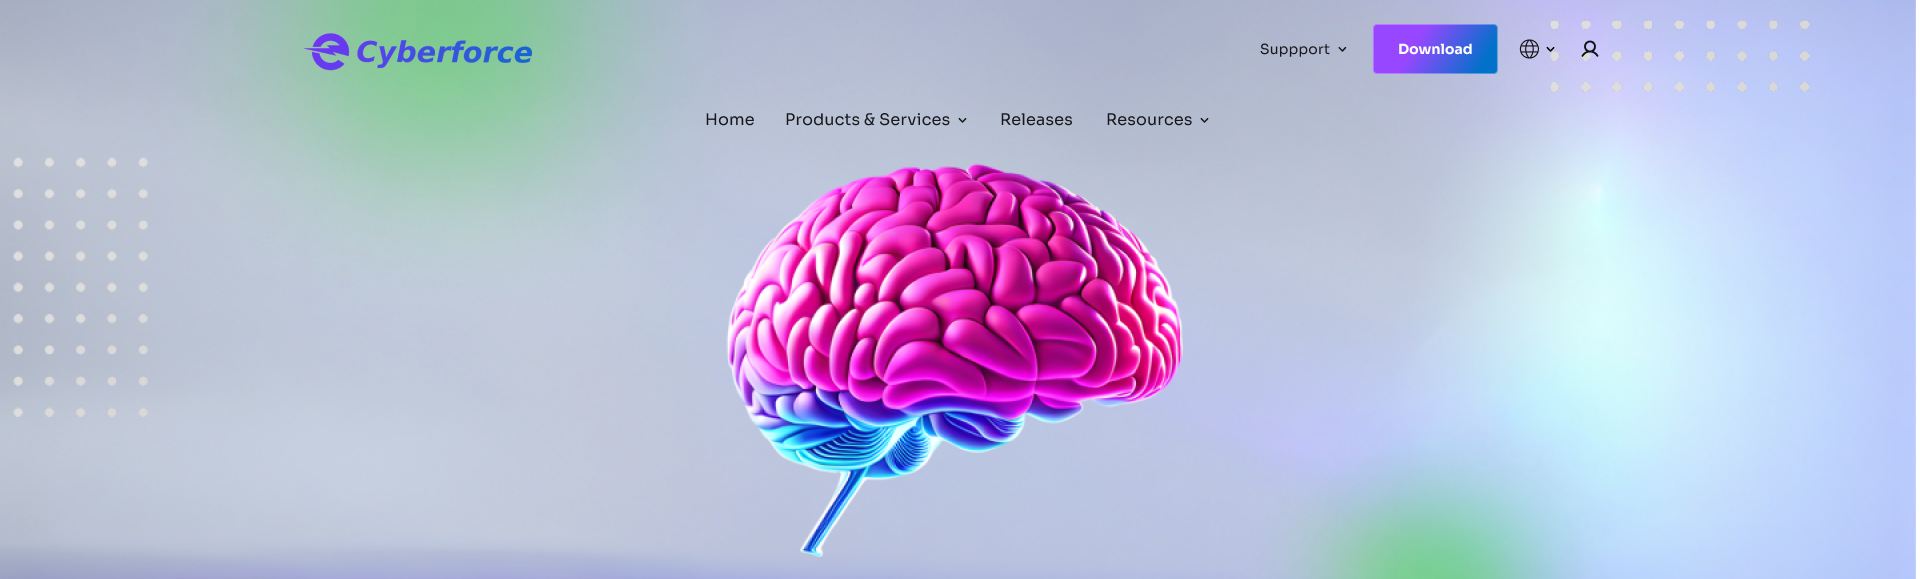
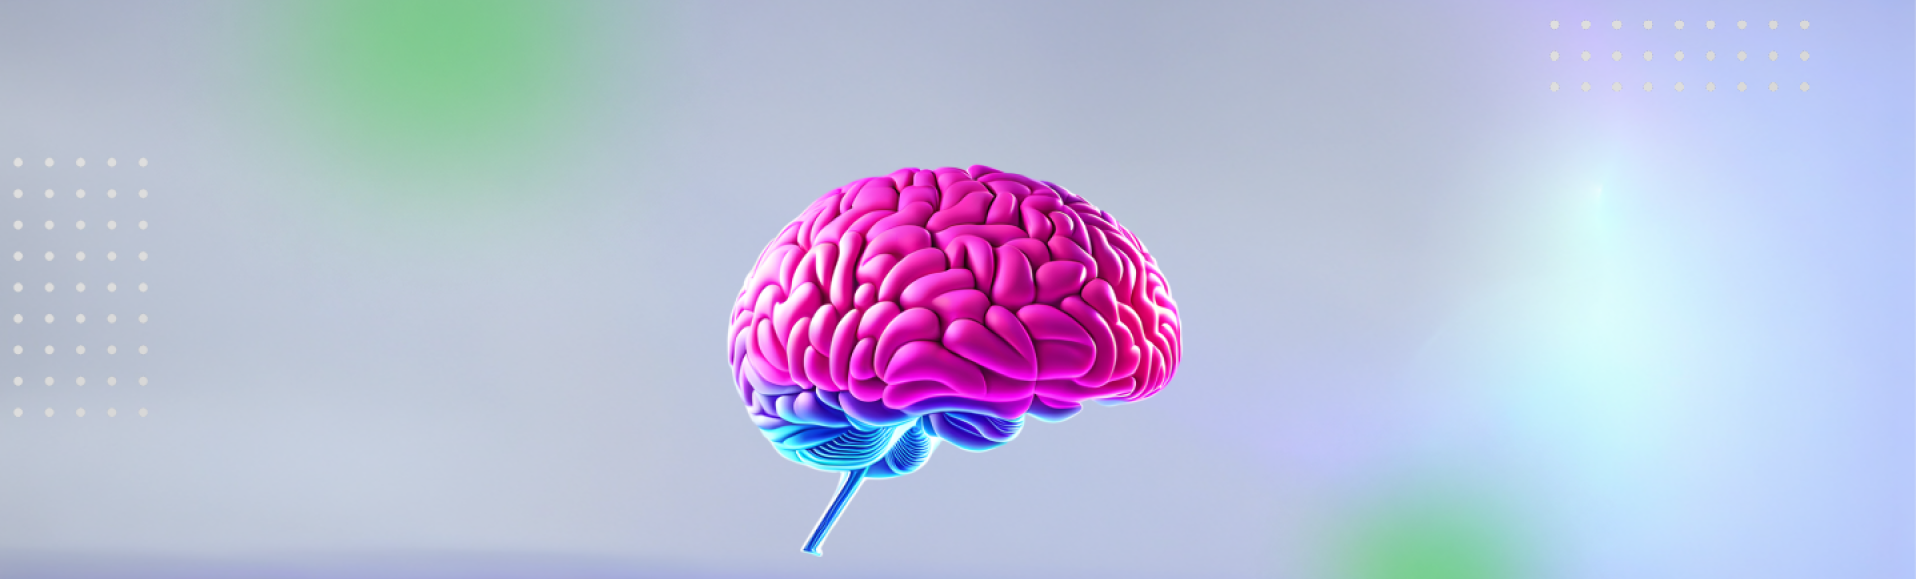
image added  in forecast

Changed region(s): [[0.6562, 0.0311, 0.8125, 0.1554], [0.375, 0.1865, 0.625, 0.2176], [0.1562, 0.0622, 0.2812, 0.1244]]

diff --git a/src/components/services/forecast/Forecast.tsx b/src/components/services/forecast/Forecast.tsx
@@ -1,82 +1,88 @@
 import Image from "next/image";
 import Vector from "./img/Vector.svg";
 import styles from "./css/forecast.module.css";
+import Frame_img from "./img/Frame_img.png";
 
 function Forecast() {
   return (
-    <div className={styles.container}>
-      <div className={styles.header}>
-        <h6>Our (SaaS) Products</h6>
-        <div className={styles.title}>
-          <h2>MacroProbeDL v1.4 in January FY2024.</h2>
-        </div>
-
-        <p>DEEP LEARNING FORECAST WILL BE AVAILABLE ON JANUARY FY2024</p>
-
-        <button className={styles.button}>Coming Soon</button>
+    <>
+      <div className={styles.Frame_img}>
+        <Image src={Frame_img} className={styles.Frame_img} alt="" />
       </div>
-      <div className={styles.content}>
-        <p>
-          Just like Forecasting Stock Price and the Weather, our MacroProbe
-          v.1.4 Comprehensive Data Collections allow the MacroProbeDL v.1.4 in
-          complementary to perform Deep Learning Forecast on the following Big
-          Data Monitor Elements such as:
-        </p>
-        <div className={styles.list}>
-          <ul>
-            <li>
-              <Image src={Vector} width={10} height={10} alt="" />
-              Link Capacity Forecast{" "}
-            </li>
-            <li>
-              <Image src={Vector} width={10} height={10} alt="" />
-              Application Capacity Forecast{" "}
-            </li>
-            <li>
-              <Image src={Vector} width={10} height={10} alt="" />
-              Server Capacity Forecast{" "}
-            </li>
-            <li>
-              <Image src={Vector} width={10} height={10} alt="" />
-              Internet Service Forecast{" "}
-            </li>
-            <li>
-              <Image src={Vector} width={10} height={10} alt="" />
-              Online Services Forecast{" "}
-            </li>
-            <li>
-              <Image src={Vector} width={10} height={10} alt="" />
-              User Experiences Forecast
-            </li>
-            <li>
-              <Image src={Vector} width={10} height={10} alt="" />
-              2-Tiers Data Center Services{" "}
-            </li>
-            <li>
-              <Image src={Vector} width={10} height={10} alt="" />
-              DDOS Forecast{" "}
-            </li>
-            <li>
-              <Image src={Vector} width={10} height={10} alt="" />
-              Blacklist Forecast{" "}
-            </li>
-            <li>
-              <Image src={Vector} width={10} height={10} alt="" />
-              Botnet Forecast
-            </li>
-            <li>
-              <Image src={Vector} width={10} height={10} alt="" />
-              Remote Hacking Forecast{" "}
-            </li>
-          </ul>
+      <div className={styles.container}>
+        <div className={styles.header}>
+          <h6>Our (SaaS) Products</h6>
+          <div className={styles.title}>
+            <h2>MacroProbeDL v1.4 in January FY2024.</h2>
+          </div>
+
+          <p>DEEP LEARNING FORECAST WILL BE AVAILABLE ON JANUARY FY2024</p>
+
+          <button className={styles.button}>Coming Soon</button>
         </div>
-        <p>
-          We hope that the MacroProbeDL v1.4 will provide the tools that
-          organizations need to proactively monitor, plan and forecast
-          appropriately to perform Capacity Planning of their Infrastructure.
-        </p>
+        <div className={styles.content}>
+          <p>
+            Just like Forecasting Stock Price and the Weather, our MacroProbe
+            v.1.4 Comprehensive Data Collections allow the MacroProbeDL v.1.4 in
+            complementary to perform Deep Learning Forecast on the following Big
+            Data Monitor Elements such as:
+          </p>
+          <div className={styles.list}>
+            <ul>
+              <li>
+                <Image src={Vector} width={10} height={10} alt="" />
+                Link Capacity Forecast{" "}
+              </li>
+              <li>
+                <Image src={Vector} width={10} height={10} alt="" />
+                Application Capacity Forecast{" "}
+              </li>
+              <li>
+                <Image src={Vector} width={10} height={10} alt="" />
+                Server Capacity Forecast{" "}
+              </li>
+              <li>
+                <Image src={Vector} width={10} height={10} alt="" />
+                Internet Service Forecast{" "}
+              </li>
+              <li>
+                <Image src={Vector} width={10} height={10} alt="" />
+                Online Services Forecast{" "}
+              </li>
+              <li>
+                <Image src={Vector} width={10} height={10} alt="" />
+                User Experiences Forecast
+              </li>
+              <li>
+                <Image src={Vector} width={10} height={10} alt="" />
+                2-Tiers Data Center Services{" "}
+              </li>
+              <li>
+                <Image src={Vector} width={10} height={10} alt="" />
+                DDOS Forecast{" "}
+              </li>
+              <li>
+                <Image src={Vector} width={10} height={10} alt="" />
+                Blacklist Forecast{" "}
+              </li>
+              <li>
+                <Image src={Vector} width={10} height={10} alt="" />
+                Botnet Forecast
+              </li>
+              <li>
+                <Image src={Vector} width={10} height={10} alt="" />
+                Remote Hacking Forecast{" "}
+              </li>
+            </ul>
+          </div>
+          <p>
+            We hope that the MacroProbeDL v1.4 will provide the tools that
+            organizations need to proactively monitor, plan and forecast
+            appropriately to perform Capacity Planning of their Infrastructure.
+          </p>
+        </div>
       </div>
-    </div>
+    </>
   );
 }
 

diff --git a/src/components/services/forecast/css/forecast.module.css b/src/components/services/forecast/css/forecast.module.css
@@ -20,6 +20,14 @@
   }
 }
 
+/* Frame Iimg */
+.Frame_img {
+  width: 100%;
+  min-height: 250px;
+  height: 100%;
+  object-fit: cover;
+}
+
 /* header */
 .header h6 {
   font-family: var(--Sora);
@@ -45,7 +53,7 @@
 }
 
 .header p {
-  margin-top: 40px;
+  margin-top: 35px;
   font-family: var(--Sora);
   font-size: 16px;
   font-weight: 400;
@@ -66,7 +74,7 @@
   margin-top: 50px;
 }
 .content p {
-  margin: 25px 0;
+  margin: 20px 0;
   font-family: var(--Sora);
   font-size: 16px;
   font-weight: 400;
